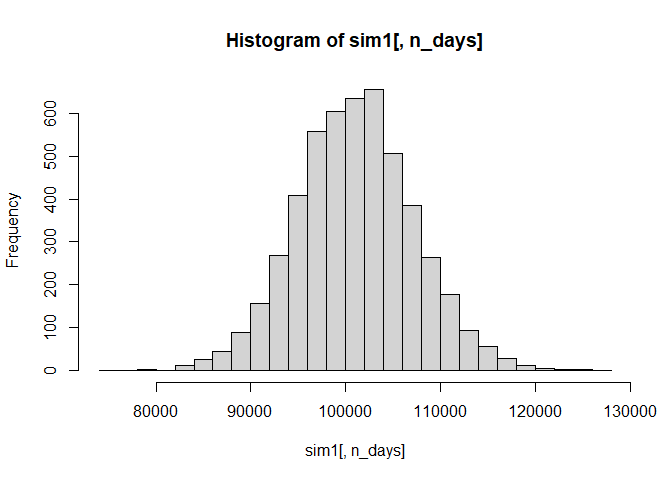
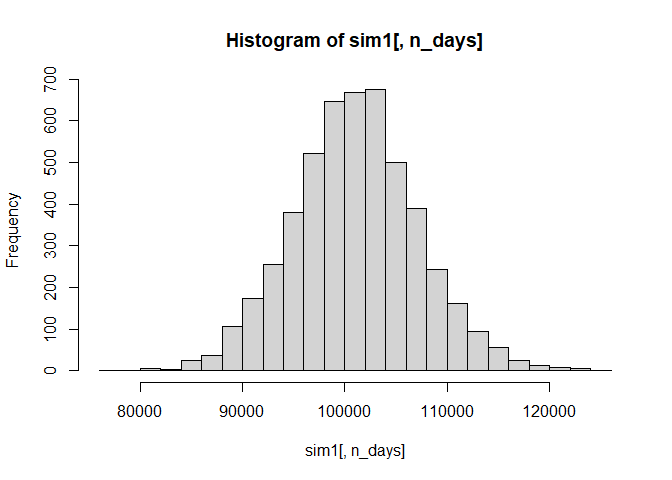
some more minor changes

diff --git a/Solutions.md b/Solutions.md
@@ -405,13 +405,14 @@ There seem to be some outliers in the data where the traffic has steeply
 fallen. Let’s see what those outliers are and see if removing them gives
 us a more clear trend in the data.
 
-    ## # A tibble: 4 × 3
-    ##   date       temp_day traffic_day
-    ##   <date>        <dbl>       <dbl>
-    ## 1 2018-09-03     81.6       24.0 
-    ## 2 2018-11-21     49.9       30.9 
-    ## 3 2018-11-22     57.0        8.77
-    ## 4 2018-11-23     65.3       14.3
+| date       | temp_day | traffic_day |
+|:-----------|---------:|------------:|
+| 2018-09-03 | 81.63750 |   24.031250 |
+| 2018-11-21 | 49.86625 |   30.921875 |
+| 2018-11-22 | 56.95562 |    8.765625 |
+| 2018-11-23 | 65.32625 |   14.328125 |
+
+Outliers in traffic in the data
 
 We can see that these dates where the outliers occurred were university
 holidays. 3rd September was Labor Day, and the three days in November
@@ -423,31 +424,6 @@ We can see an overall decrease in the temperature over the time period
 of the data from September to November. Along with the decrease in
 temperature, can we also say there was a decrease in the ridership as it
 follows a similar trend?
-
-    ##       year          month         day             hour           minute     
-    ##  Min.   :2018   Min.   : 9   Min.   : 1.00   Min.   : 6.00   Min.   : 0.00  
-    ##  1st Qu.:2018   1st Qu.: 9   1st Qu.: 8.00   1st Qu.: 9.75   1st Qu.:11.25  
-    ##  Median :2018   Median :10   Median :16.00   Median :13.50   Median :22.50  
-    ##  Mean   :2018   Mean   :10   Mean   :15.67   Mean   :13.50   Mean   :22.50  
-    ##  3rd Qu.:2018   3rd Qu.:11   3rd Qu.:23.00   3rd Qu.:17.25   3rd Qu.:33.75  
-    ##  Max.   :2018   Max.   :11   Max.   :31.00   Max.   :21.00   Max.   :45.00  
-    ##                                                                             
-    ##       date            day_of_week   weekend           temperature   
-    ##  Min.   :2018-09-01   Sun:832     Length:5824        Min.   :29.18  
-    ##  1st Qu.:2018-09-23   Mon:832     Class :character   1st Qu.:59.20  
-    ##  Median :2018-10-16   Tue:832     Mode  :character   Median :72.75  
-    ##  Mean   :2018-10-16   Wed:832                        Mean   :69.28  
-    ##  3rd Qu.:2018-11-08   Thu:832                        3rd Qu.:79.29  
-    ##  Max.   :2018-11-30   Fri:832                        Max.   :97.64  
-    ##                       Sat:832                                       
-    ##     boarding        alighting         traffic      
-    ##  Min.   :  0.00   Min.   :  0.00   Min.   :  0.00  
-    ##  1st Qu.: 13.00   1st Qu.: 13.00   1st Qu.: 30.00  
-    ##  Median : 33.00   Median : 28.00   Median : 93.00  
-    ##  Mean   : 51.51   Mean   : 47.65   Mean   : 99.16  
-    ##  3rd Qu.: 79.25   3rd Qu.: 64.00   3rd Qu.:156.00  
-    ##  Max.   :288.00   Max.   :304.00   Max.   :355.00  
-    ## 
 
 ![](Solutions_files/figure-markdown_github/4f-1.png)
 
@@ -501,16 +477,16 @@ $100K capital equally and then find the sum to compute our new total
 wealth at the end of a random day.
 
     ##            ClCl.USOa ClCl.UNGa ClCl.OILKa ClCl.GAZa ClCl.RJNa
-    ## 2019-01-17  19945.75  20035.44   19928.32  20016.37     20000
+    ## 2021-04-01  20646.44  20250.52    20638.9  20200.33  20406.09
 
-    ## [1] 99925.87
+    ## [1] 102142.3
 
 So as we can see on a random day we went from $100,000 in capital to the
 output.
 
 We then observed the change over a time period of two weeks.
 
-    ## [1] 87237.4
+    ## [1] 108580.6
 
 ![](Solutions_files/figure-markdown_github/5e-1.png)
 
@@ -519,40 +495,40 @@ So we can see the change in our capital over the time of 20 days.
 So now we bootstrap this model.
 
     ##               [,1]      [,2]      [,3]      [,4]      [,5]      [,6]      [,7]
-    ## result.1  99750.49  98114.06  98370.23  97754.64  94232.44  95180.01  96562.83
-    ## result.2  99737.03 101234.37  94982.18  95191.96  93978.48  94680.29  94042.62
-    ## result.3  97169.28  97562.31  97710.39  98527.67  96724.90  93937.81  96395.40
-    ## result.4  96924.63  95157.02  91353.38  90354.14  88790.35  90496.62  90593.35
-    ## result.5 101323.76 106612.74 115366.66 116829.56 119274.54 120155.62 124241.85
-    ## result.6  97717.71  98826.47  94556.50  92998.58  94664.22  95293.47  95674.92
-    ##               [,8]      [,9]     [,10]     [,11]     [,12]     [,13]     [,14]
-    ## result.1  96682.15  98181.44  95509.67  96472.28  95889.50  95843.94  95705.71
-    ## result.2  94382.23  94263.09  92022.68  92868.95  95132.61  94096.35  96367.74
-    ## result.3  95717.31  96232.30  95801.22  95386.34  95862.71  98860.27  98584.23
-    ## result.4  93522.11  94294.74  91421.69  91314.56  92036.07  92309.86  93527.20
-    ## result.5 124196.91 125108.23 126995.54 128216.26 129046.22 130127.21 132097.78
-    ## result.6  97649.97  98411.84  97276.80  97926.77  98369.41  99063.10  98142.79
+    ## result.1 101808.29 101785.39  98828.47  99548.83  99692.52  99801.02  99549.29
+    ## result.2 100045.72  99322.90 100570.66 101357.61 102474.53 105481.68 107682.10
+    ## result.3 100050.13 100659.60 100436.76 103235.09 101999.01 102369.20 104046.81
+    ## result.4 101504.84 101496.10 101203.75 100463.13 100813.36 100578.94 100064.92
+    ## result.5  99640.78 104848.76 104569.78 104768.20 104762.68 104139.09 105010.67
+    ## result.6  98814.49  99730.43  97932.11  99658.97  99076.46 102565.13 103201.71
+    ##               [,8]      [,9]    [,10]     [,11]    [,12]    [,13]    [,14]
+    ## result.1 100803.58 103367.90 103043.1 104519.19 104631.1 105398.8 109154.3
+    ## result.2 107830.73 107893.20 108543.8 106065.61 106119.2 106101.0 106900.8
+    ## result.3 106052.89 108399.09 112568.1 110490.95 105275.8 104560.5 105604.6
+    ## result.4 100355.11 101754.97 103103.6 101982.29 102683.6 103064.8 102329.8
+    ## result.5 111152.48 110954.61 110556.3 110519.18 105873.2 106786.6 108426.0
+    ## result.6  96884.16  96458.59  98875.8  98939.17 100578.8 100068.0 100836.6
     ##              [,15]     [,16]     [,17]     [,18]     [,19]     [,20]
-    ## result.1  95443.86  95995.57  93948.27  93852.83  93292.39  90678.44
-    ## result.2  95813.44  96530.97  96680.48  97772.44  98349.91  98726.88
-    ## result.3  98890.52  97918.76  98071.05  93666.18  95215.38  96221.04
-    ## result.4  91668.47  93958.41  94609.74  92329.95  92793.49  93660.58
-    ## result.5 143466.09 143686.82 142667.73 139946.03 143672.09 142948.37
-    ## result.6  98547.59  95823.71  97018.87  98476.82  98131.81  95040.01
+    ## result.1 111549.81 111213.55 112641.87 112116.52 112340.65 114050.07
+    ## result.2 106160.55 106793.98 107106.84 107775.77 107286.37 107961.36
+    ## result.3 107073.31 108525.18 109447.67 108791.49 110962.28 111289.85
+    ## result.4 102137.68 102400.68 101277.26  98221.75  99616.15 100721.42
+    ## result.5  98318.53  97516.12  98087.07  96965.91  95772.41  96393.26
+    ## result.6 102068.15  99790.70  99990.09  99762.98  96070.27  94823.14
 
 ![](Solutions_files/figure-markdown_github/5f-1.png)
 
 So we can see the distribution of capital after bootstrapping. It is
 mostly normal.
 
-    ## [1] 100418.7
+    ## [1] 100573.7
 
-    ## [1] 418.7201
+    ## [1] 573.6578
 
 ![](Solutions_files/figure-markdown_github/5g-1.png)
 
     ##        5% 
-    ## -16059.34
+    ## -16577.25
 
 So this is our ultimate gain/loss, which can vary from time to time.
 
@@ -593,16 +569,16 @@ capital equally and then find the sum to compute our new total wealth at
 the end of a random day.
 
     ##            ClCl.VTOa ClCl.IEMGa ClCl.GEMa ClCl.DEMa ClCl.PXHa
-    ## 2018-08-29  20405.41   20094.45  20120.34  20067.86  20150.23
+    ## 2021-04-09  20834.22   19831.55  19855.25  19842.48  19831.56
 
-    ## [1] 100838.3
+    ## [1] 100195.1
 
 So as we can see on a random day we went from $100,000 in capital to
 output \[1\]. This amount varies from day to day.
 
 We then observed the change over a time period of two weeks.
 
-    ## [1] 110823.5
+    ## [1] 96619.27
 
 ![](Solutions_files/figure-markdown_github/5l-1.png)
 
@@ -610,41 +586,41 @@ So we can see the change in our capital over the time of 20 days.
 
 So now we bootstrap this model.
 
-    ##               [,1]      [,2]      [,3]      [,4]      [,5]      [,6]     [,7]
-    ## result.1  98389.51  98624.63  99302.27  99977.46 100798.16 100459.11 103824.8
-    ## result.2  98965.66 100262.02 100139.96 102444.09 102165.18 100057.63 100152.8
-    ## result.3  99690.38  99282.53  99688.70  98952.61  99184.91 100407.19 100761.7
-    ## result.4  99377.45  99082.26  98775.33 100183.24 100332.52 101584.51 100469.0
-    ## result.5 100287.10 100068.61 100753.78 101081.13 102109.15 101619.41 102283.9
-    ## result.6  98995.12  98131.28  98826.96  96858.78  97409.07  99661.47 100161.8
+    ##               [,1]      [,2]      [,3]      [,4]      [,5]      [,6]      [,7]
+    ## result.1  98554.22  98128.01  98234.84  98176.70  97127.19  98207.35  98561.66
+    ## result.2 100834.10 101449.46 102195.68 100765.33  99633.36  99519.99  99423.39
+    ## result.3 101874.64 101861.63 102304.81 102467.09 104116.18 103008.67 102499.69
+    ## result.4 100460.82 100213.10  99027.44  99001.77  98754.29  97630.51  97026.05
+    ## result.5 100430.22 101800.72 102217.79 103680.91 103926.77 103752.29 105977.03
+    ## result.6  99892.15  99673.65 100418.31 100824.99 101471.65 102113.20  97455.37
     ##               [,8]      [,9]     [,10]     [,11]     [,12]     [,13]     [,14]
-    ## result.1 103916.71 104301.04 103408.50 104335.61 103044.86 103735.77 104479.06
-    ## result.2  98903.94  99699.30  99091.34  99688.90  98793.42  98139.34  98658.50
-    ## result.3  99999.77  98593.48  96895.31  97340.28  96356.92  96979.91  97913.01
-    ## result.4  99895.91 101778.33 102066.87 102761.64 103070.71 105350.54 101947.23
-    ## result.5 102315.14 102576.27 102016.93 104271.96 104951.57 104468.18 103120.97
-    ## result.6 100272.70  99830.61 100909.07 100786.35 101107.45 101827.62 102723.11
+    ## result.1  97531.65  96073.34  95667.56  95917.66  96227.76  96093.04  97934.11
+    ## result.2 100272.06 100110.90 100710.74 100209.88 100023.85  99572.50  99066.42
+    ## result.3 103210.87 103714.86 103401.93 102966.85 102768.12 103581.35 102409.68
+    ## result.4  98199.88  99444.47  99400.65  99512.62  99850.29  98575.71  98192.49
+    ## result.5 107605.72 109165.65 109428.95 110332.28 110607.59 110889.29 111584.26
+    ## result.6  98530.32  98604.02  98908.84  98374.34  99235.94 100205.59 100817.84
     ##              [,15]     [,16]     [,17]     [,18]     [,19]     [,20]
-    ## result.1 103105.17 104343.02 103638.63 103858.09 103548.31 105564.18
-    ## result.2  98354.18  98274.67  97820.87  98390.99  97924.32  97426.16
-    ## result.3  97896.34  97489.48  96994.71  97475.77  98311.97  97785.61
-    ## result.4 102032.95  93950.59  93701.81  94052.28  94087.69  94334.86
-    ## result.5 103537.30 104313.63 102755.61 102681.40 103320.06 102735.31
-    ## result.6 101785.22 103182.51 103426.58 103329.63 103378.96 104214.63
+    ## result.1  99256.11  99087.64  98464.69  97517.44  97043.69  97286.42
+    ## result.2  99577.84  98737.25  99742.07  98902.29  99234.95 100424.75
+    ## result.3 102701.65 103745.29 103908.06 104454.76 104520.74 102749.56
+    ## result.4  97999.09  98528.89  97369.97  97483.24  97339.62  94936.97
+    ## result.5 112782.10 113440.81 113754.51 114324.59 115505.60 114958.56
+    ## result.6 101367.43 101299.92 101239.97 101699.49 101193.48 106809.53
 
 ![](Solutions_files/figure-markdown_github/5m-1.png)
 
 So we can see the distribution of capital after bootstrapping. It is
 mostly normal.
 
-    ## [1] 100613.8
+    ## [1] 100586.7
 
-    ## [1] 613.8365
+    ## [1] 586.6699
 
 ![](Solutions_files/figure-markdown_github/5n-1.png)
 
     ##        5% 
-    ## -7672.874
+    ## -7832.953
 
 So our ultimate gain/loss would be output \[1\]. This could vary due to
 randomization in bootstrapping.
@@ -685,16 +661,16 @@ capital equally and then find the sum to compute our new total wealth at
 the end of a random day.
 
     ##            ClCl.XHEa ClCl.PSCHa ClCl.IHEa ClCl.PBEa ClCl.FHLCa
-    ## 2020-06-17  20066.71   19797.42  19896.45  20194.28   19967.74
+    ## 2018-02-09  20200.97    20262.4  20223.25  20111.02   20274.88
 
-    ## [1] 99922.6
+    ## [1] 101072.5
 
 So as we can see on a random day we went from $100,000 in capital to
 output\[1\].
 
 We then observed the change over a time period of two weeks.
 
-    ## [1] 93398.38
+    ## [1] 97318.17
 
 ![](Solutions_files/figure-markdown_github/5s-1.png)
 
@@ -702,41 +678,41 @@ So we can see the change in our capital over the time of 20 days.
 
 So now we bootstrap this model.
 
-    ##               [,1]      [,2]      [,3]      [,4]      [,5]      [,6]      [,7]
-    ## result.1 100199.97  99338.86  97789.26  97808.80  96866.36  98453.95  98856.89
-    ## result.2  99214.74  98790.16  98142.52  98383.23  98510.11  98652.35  96520.71
-    ## result.3 100469.57 101279.67 101723.81 102688.01 104265.07 104573.35 103970.06
-    ## result.4  99470.89 100829.30 100577.58 101563.50 102707.62 101208.10 100915.28
-    ## result.5  99963.45  99452.24 101069.25  98446.55 100399.23 102410.47 102062.96
-    ## result.6 100128.73 100606.62  99627.31  99500.04 100221.83 100465.22 101633.55
-    ##               [,8]      [,9]     [,10]     [,11]     [,12]     [,13]     [,14]
-    ## result.1  99563.56  99007.09  98476.37  99161.64  94956.40  95019.17  94936.22
-    ## result.2  98643.49  98873.77  99217.98  98096.62  95496.51  95902.47  96546.29
-    ## result.3 102497.88 101037.41 102797.38 103868.25 103760.03 103861.96 101283.59
-    ## result.4 101673.22 102671.66 102424.22 100998.53  98194.39  98328.69  96997.50
-    ## result.5 103368.23 103622.44 105117.59 110217.88 111688.27 110408.59 109164.44
-    ## result.6 102238.61 101487.84 101060.83  98675.31  98374.35  96183.39  98118.27
-    ##              [,15]     [,16]     [,17]     [,18]     [,19]     [,20]
-    ## result.1  95919.74  95661.90  95826.90  94673.28  95219.75  92426.84
-    ## result.2  96810.77  96368.11  94533.75  94854.01  95799.80  94438.68
-    ## result.3 100659.83 102233.28 103199.49 102239.17 103333.73 103042.63
-    ## result.4  98123.67  98684.35  99189.26  99006.56  99186.14  97893.64
-    ## result.5 109093.83 109674.64 111818.63 112345.50 113644.71 113031.76
-    ## result.6  97378.88  99791.52  99422.36 100445.11 100376.95  99717.60
+    ##               [,1]      [,2]     [,3]      [,4]     [,5]      [,6]      [,7]
+    ## result.1 100308.84 100232.35 100247.1  99510.29  99607.9  99839.79 100055.62
+    ## result.2 100807.96 100465.35 100124.5 100111.94 100126.1 100671.27 100388.47
+    ## result.3  99486.52 100806.16 101154.0 101802.58 101752.4 100139.85 100737.51
+    ## result.4  99458.88  99518.47 100809.3 101343.25  97787.1  96638.45  97111.94
+    ## result.5  99643.44 100532.66 100696.4 100382.91 101522.4 100202.35  98574.88
+    ## result.6 100131.97 101439.11 101494.2 100487.44 100545.6 102565.05 103668.56
+    ##               [,8]     [,9]     [,10]     [,11]     [,12]     [,13]     [,14]
+    ## result.1 100522.28 101437.7 101460.18 102592.91 102552.56 101035.22 101364.38
+    ## result.2 102937.87 102428.0 103475.25 103261.23 104246.13 104225.26 104745.68
+    ## result.3 101486.83 101755.6 102073.11 102171.39 101863.26  99918.41 100341.58
+    ## result.4  94527.26  95637.7  95885.57  95602.74  95778.32  97051.05  97628.77
+    ## result.5  98256.98  97285.1  99495.85 102202.96 103401.38 103360.51 103980.25
+    ## result.6 105067.21 105786.6 106036.00 107731.99 108000.35 107538.00 106982.87
+    ##              [,15]     [,16]     [,17]     [,18]    [,19]    [,20]
+    ## result.1 101037.01  99143.20  98755.31  95862.34  97448.5 100899.1
+    ## result.2 104000.65 101998.63 102216.52 102396.01 102454.1 103019.8
+    ## result.3 100907.28 100164.52 100303.88 101552.86 101924.2 103350.1
+    ## result.4  97526.21  99207.24  99221.29 100499.18 100519.6 101652.3
+    ## result.5 103844.70 105650.49 104466.14 102610.93 103360.1 103213.2
+    ## result.6 107169.60 107918.45 109186.69 108268.64 109262.1 107573.7
 
 ![](Solutions_files/figure-markdown_github/5t-1.png)
 
 So we can see the distribution of capital after bootstrapping. It is
 mostly normal.
 
-    ## [1] 101055.2
+    ## [1] 101060.8
 
-    ## [1] 1055.206
+    ## [1] 1060.779
 
 ![](Solutions_files/figure-markdown_github/5u-1.png)
 
     ##        5% 
-    ## -9082.706
+    ## -9138.233
 
 So our ultimate gain/loss would be output \[1\]. However, this could
 change due to randomization in bootstrapping.
@@ -3278,7 +3254,7 @@ grocery_rules <- apriori(grocery_trans, parameter=list(support=.0015,
     ## = 0.9, : Mining stopped (maxlen reached). Only patterns up to a length of 5
     ## returned!
 
-    ##  done [0.00s].
+    ##  done [0.01s].
     ## writing ... [7 rule(s)] done [0.00s].
     ## creating S4 object  ... done [0.00s].
 
